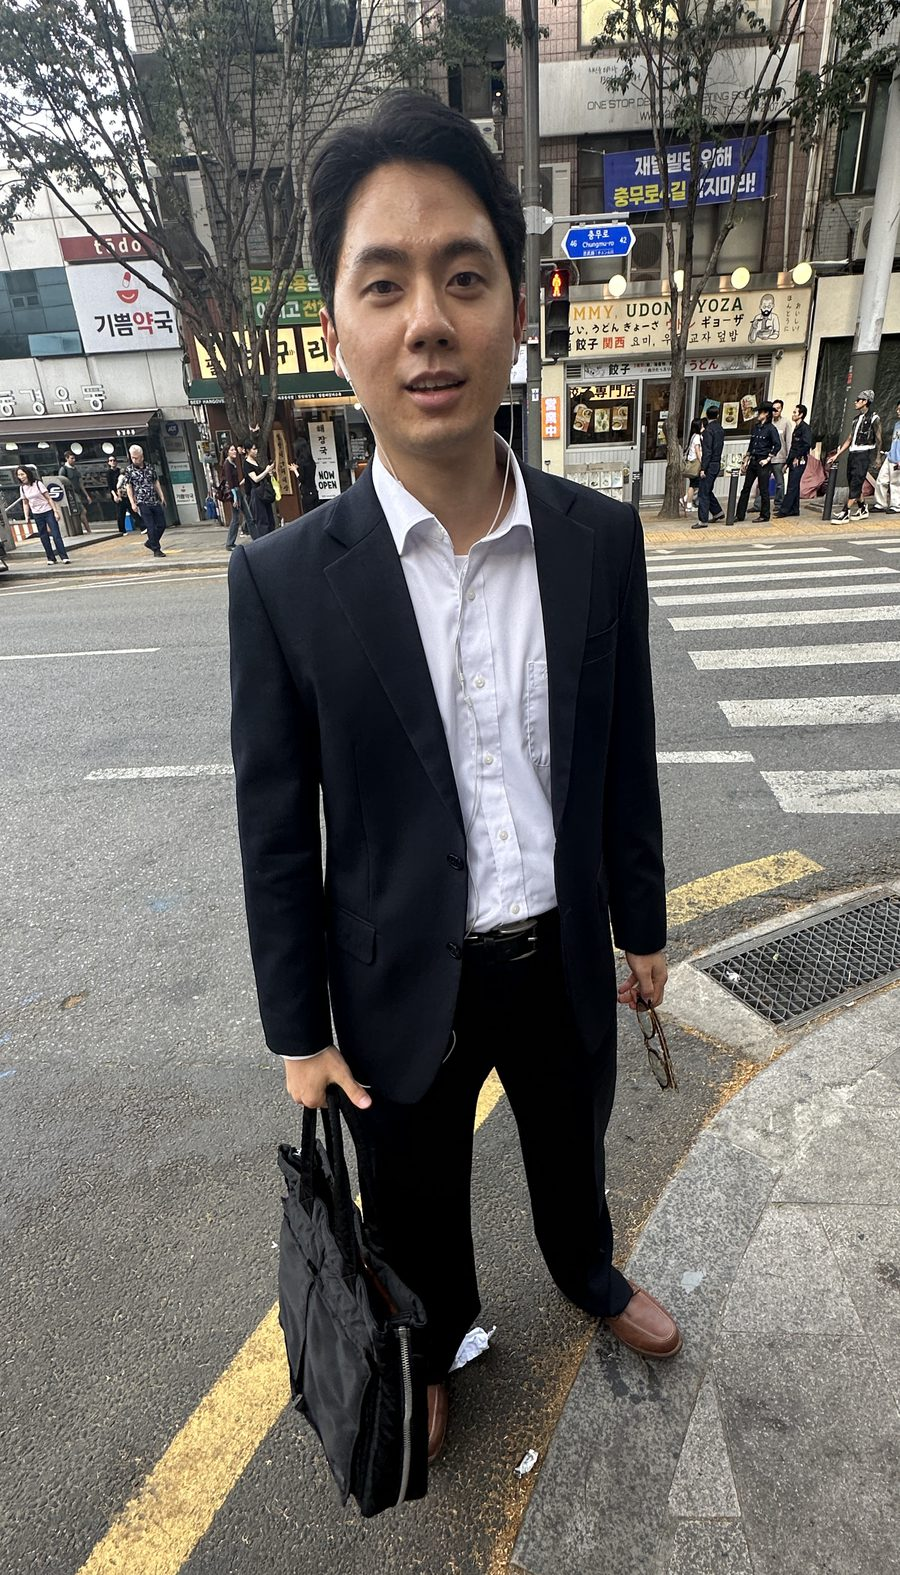
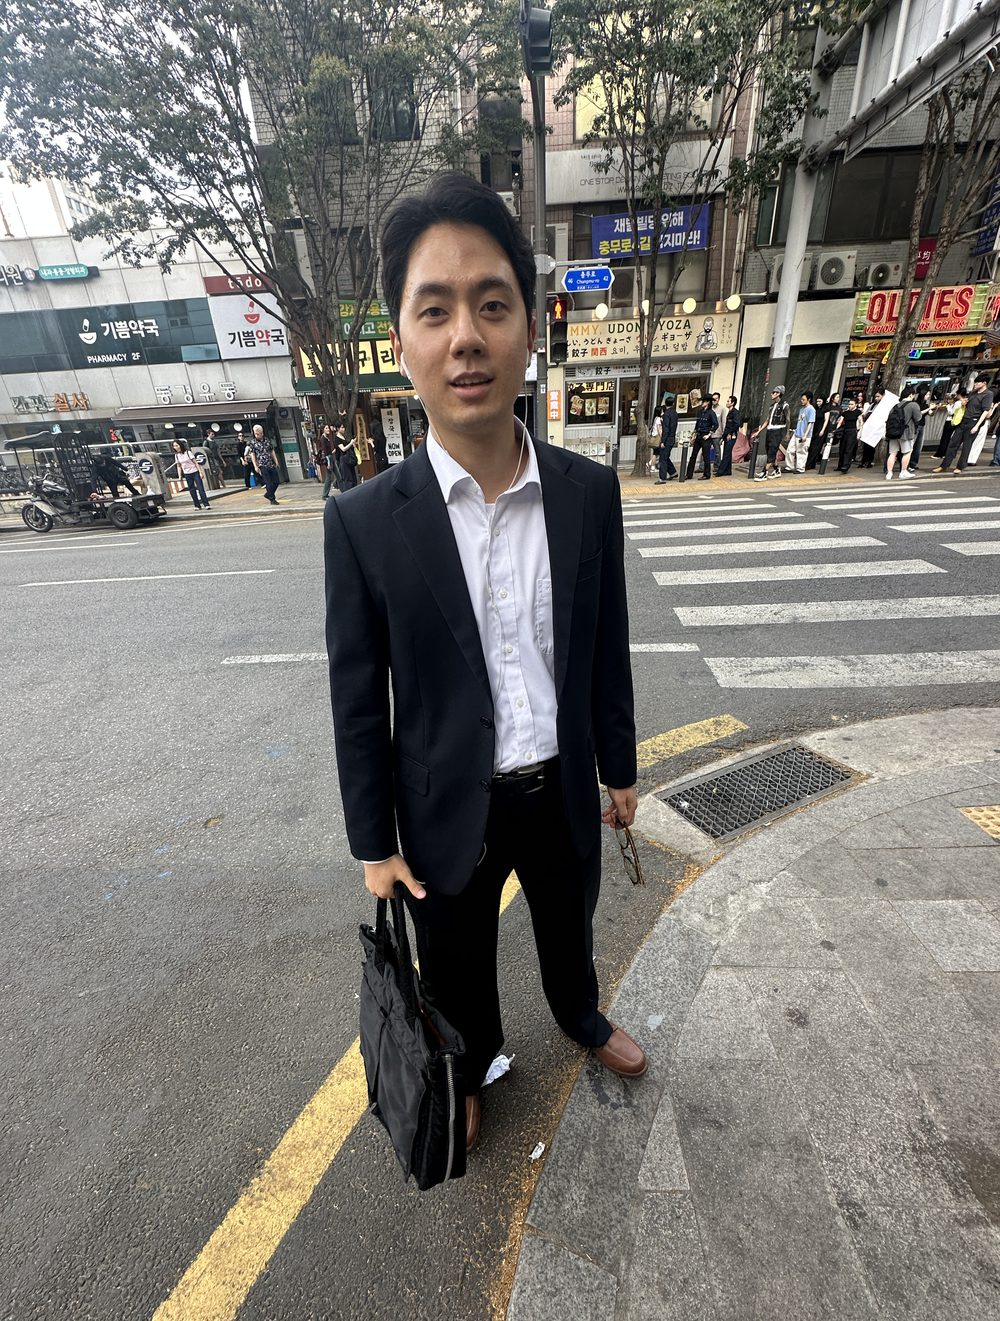
Wider portrait crop: more street, smaller figure

diff --git a/index.html b/index.html
@@ -15,7 +15,7 @@
 <div class="hero-text"><h1>Aiden Lee</h1><p class="muted role">Industrial &amp; Operations Engineering · University of Michigan</p><div class="prose"><p>I'm a junior studying Industrial &amp; Operations Engineering at the <a href="https://ioe.engin.umich.edu/" target="_blank" rel="noopener">University of Michigan</a>. I moved from Seoul to Toronto when I was six, played on Korea's youth national hockey team, started college and research in Chicago, then served 18 months as a logistics officer and interpreter in the Korean Army. <a href="journey/index.html">Read the longer story</a>.</p>
 <p>Since then I've kept doing one thing: find a slow, manual piece of knowledge work and build a tool that makes it fast. At GLG Korea that was a <a href="posts/value-chain-explorer.html">value-chain research tool</a> for the business development team. With friends it's <a href="https://apeul.com" target="_blank" rel="noopener">Apeul</a>, a study companion for college courses.</p>
 <p>Every week my dad sends me a report on the world economy, and every trading day a short market note. Talking those through with him is how I learn to see the world. I write down what I take from it in <a href="worldview/index.html">Worldview</a>.</p></div></div>
-<figure class="portrait"><img src="assets/portrait.jpg" alt="Aiden Lee on a street in Seoul" width="900" height="1575"></figure>
+<figure class="portrait"><img src="assets/portrait.jpg" alt="Aiden Lee on a street in Seoul" width="1000" height="1321"></figure>
 </header>
 
 <figure class="shot" id="shot"><img src="assets/gallery/garden-table.jpg" alt="The garden, summer afternoon."><figcaption>The garden, summer afternoon.</figcaption></figure>

diff --git a/style.css b/style.css
@@ -114,7 +114,7 @@ header.intro p { margin: 0; font-size: 15px; }
 .journey .prose h2 small { display: block; color: var(--muted); font-weight: 400; font-size: 13px; margin-bottom: 2px; }
 
 
-header.hero { display: grid; grid-template-columns: 1fr 200px; gap: 32px; align-items: start; }
+header.hero { display: grid; grid-template-columns: 1fr 220px; gap: 32px; align-items: start; }
 header.hero h1 { margin: 0; }
 header.hero .role { margin: 2px 0 20px; font-size: 15px; }
 .portrait { margin: 6px 0 0; }
